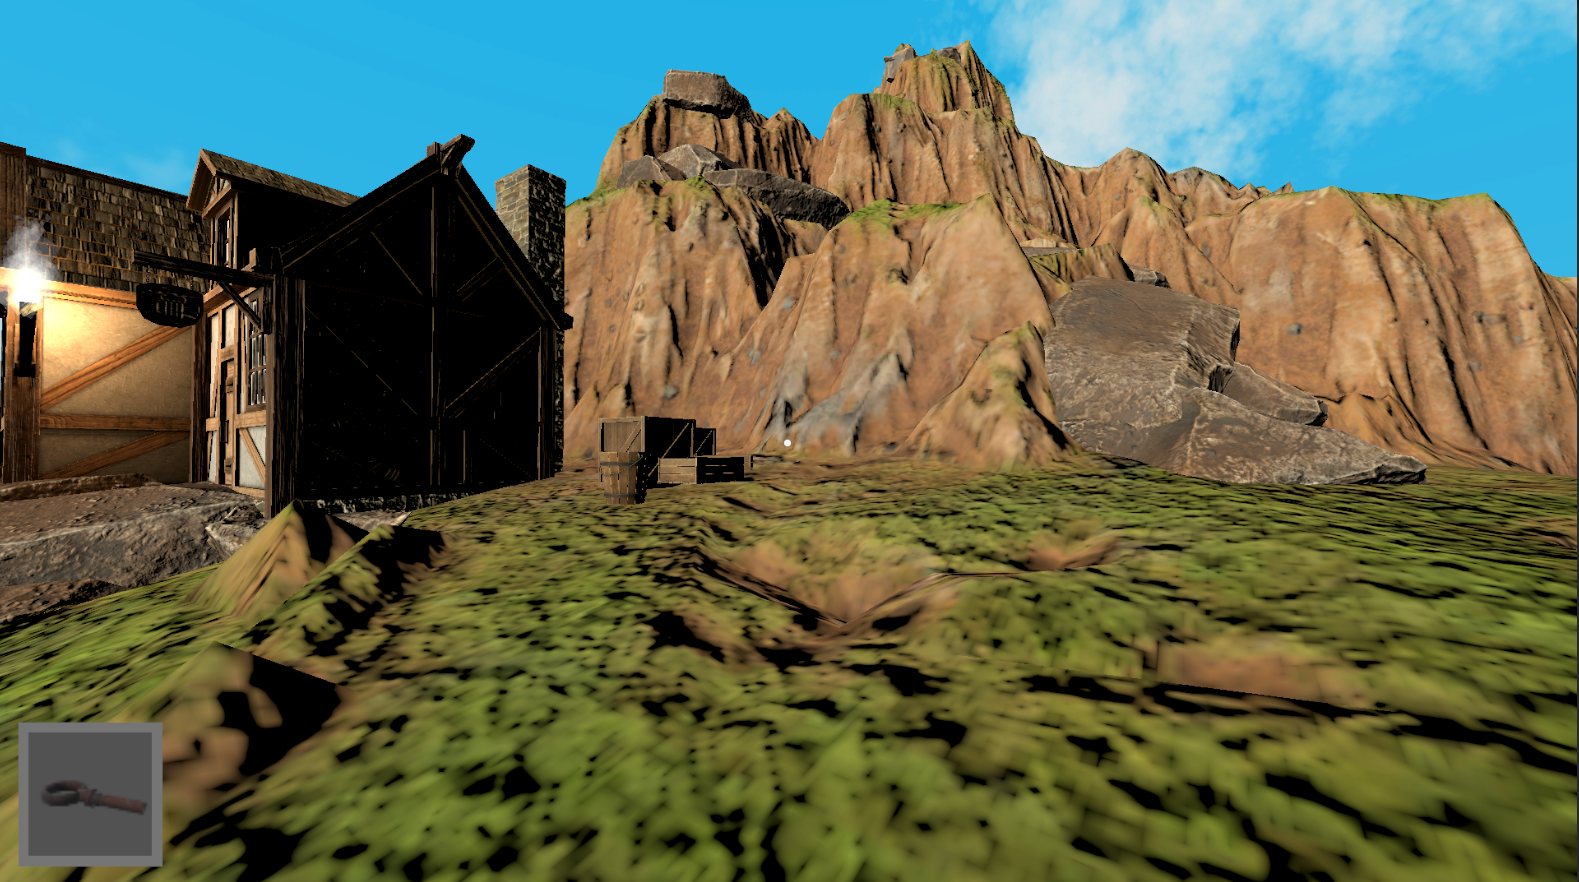
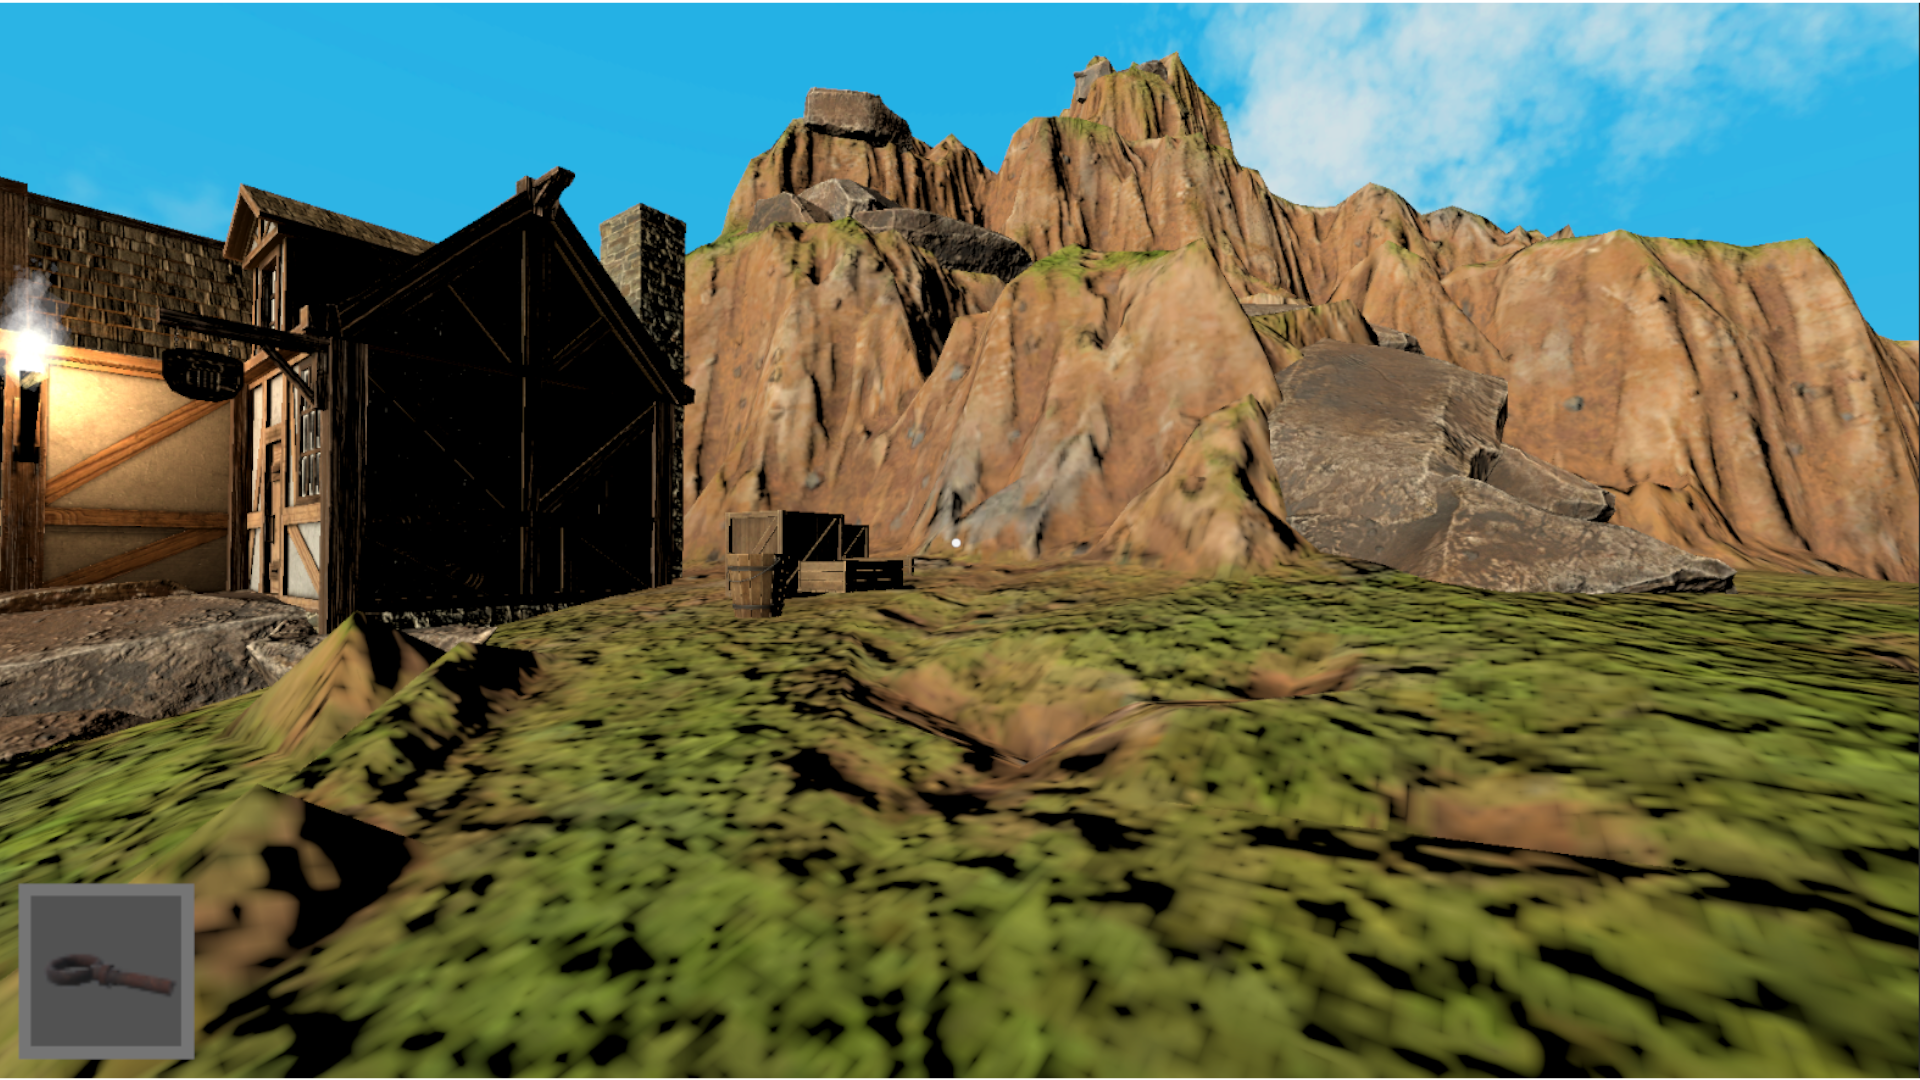
Clean up
Set all margins and sizes to percentages to ensure it looks the same on different screen sizes

diff --git a/style.css b/style.css
@@ -5,9 +5,7 @@ body{
     height: 100%;
     background-color: darkgreen;
 }
-main{
-    margin: 20px; /* Remove this to check for improvement web version*/
-}
+
 
 /* Fonts adjustments*/
 strong{
@@ -32,6 +30,7 @@ h3{
 h4{
     font-size: 25;
     color: darkgreen;
+    text-align: center;
 }
 
 /* Navigation Bar*/
@@ -50,7 +49,7 @@ nav{
 
 .menu_references{
     list-style-type: none;
-    padding: 0px;
+    padding: 0;
     margin: 0;
     display: flex;
 }
@@ -59,7 +58,7 @@ nav{
     text-decoration: none;
     text-align: center;
     display: block;
-    padding: 15px;
+    padding: 17.5px;
 }
 .menu_references a:hover{
     background-color: forestgreen;
@@ -96,60 +95,64 @@ nav{
     border-radius: 3px;
     background-color: white;
 }
+.contact_icon:hover{
+    background-color: rgb(204, 204, 204);
+}
 
 
 /* Main container*/
 .main_container{
     display: flex;
     justify-content: space-between;
-    margin: 1rem;
+    margin: 1%;
 }
 
 .left_section{
     display: flex;
     flex-direction: column;
-    width: 58%;
+    width: 60%;
     height: auto;
     background-color: rgb(2, 129, 2);
     border-radius: 3px;
 }
 .about_content{
     display: flex;
-    margin: 0.5rem;
+    margin: 2%;
     background-color: rgb(216, 215, 215);
     border-radius: 3px;
     align-items: center;
-    flex-wrap: wrap;
+    flex-wrap: wrap-reverse;
+    height:min-content;
 }
 .about_content div{
-    margin: 0.5rem;
+    margin: 2%;
 }
 .profile_picture{
-    max-width: 15rem;
-    max-height: 15rem;
+    width: 25%;
     border-radius: 3px;
-    margin: 0.5rem;
+    margin: 2%;
 }
 
 .skills_content{
     display: flex;
-    margin: 0.5rem;
+    margin: 2%;
     background-color: rgb(216, 215, 215);
     border-radius: 3px;
     align-items: center;
-    justify-content: space-evenly;
+    
     flex-wrap: wrap;
 }
 #Skill{
     display: flex;
     flex-direction: column;
     align-items: center;
-    height: 7rem;
+    justify-content: center;
+    height: auto;
+    margin: 2%;
 }
 .skills_content img{
-    width: 3rem;
-    height: 3rem;
-    margin: 0.5rem;
+    width: 5rem;
+    padding: 0.5rem;
 }
 
 .Ed_Work_Title{
@@ -160,51 +163,54 @@ nav{
 .Ed_Work_container{
     display: flex;
     justify-content: space-between;
-    margin: 0.5rem;   
+    margin: 2%;   
 }
 .Ed_Work_container div{
     display: flex;
     flex-direction: column;
-    width: 48%;
+    width: 49%;
     height: auto;
     background-color: rgb(216, 215, 215);
     border-radius: 3px;
 }
 #Ed-Work_line{
-    margin: 0.5rem;
+    margin: 2%;
     width: auto;
 }
-/* Options to make different headings in the same line work
--use flexbox to wrap them against their will
-- Headings are what makes them go to the next line. Use different html elements and attach css classes to them.
--Make it so it's on the next line everywhere for stylistic reasons. Check if it works at different widths.
-*/
 
 
 .projects_list{
     display: flex;
     flex-direction: column;
     align-items: center;
-    width: 40%;
+    width: 39%;
     background-color: rgb(2, 129, 2);
     border-radius: 3px;
 }
 .project{
     display: flex;
     flex-direction: column;
-    margin: 0.5rem;
+    margin: 2%;
     background-color: rgb(216, 215, 215);
     border-radius: 3px;
+    width: 94%;
 }
 .project_line{
-    width: 90%;
+    width: 96%;
     align-self: center;
-    margin: 0.5rem;
+    text-align: center;
+    margin: 2%;
+}
+.project div{
+    margin: 1%;
 }
 
 .projects_list a{
     text-decoration: none;
     color: white;
+}
+.projects_list a:hover{
+    text-decoration: underline;
 }
 
 #green_button{
@@ -213,10 +219,10 @@ nav{
     color: white;
     text-align: center;
     border-radius: 3px;
-    padding: 0.5rem;
-    width: inherit;
+    padding: 1%;
+    width: auto;
     font-weight: bold;
 }
-.projects_list a:hover{
-    text-decoration: underline;
+#green_button:hover{
+    background-color: forestgreen;
 }

diff --git a/index.html b/index.html
@@ -47,31 +47,31 @@
             <h3>Skills</h3>
             <div class="skills_content">
                 <div id="Skill">
-                    <img src="/assets/Logos/Unity_Logo.png" alt="Unity">
+                    <img src="/assets/Logos/Unity_Logo.png" alt="Unity logo">
                     Unity
                 </div>
                 <div id="Skill">
-                    <img src="/assets/Logos/csharp-logo.svg" alt="C#">
+                    <img src="/assets/Logos/csharp-logo.svg" alt="C# logo">
                     C#
                 </div>
                 <div id="Skill">
-                    <img src="/assets/Logos/GitHub_Logo.svg" alt="GitHub">
+                    <img src="/assets/Logos/GitHub_Logo.svg" alt="GitHub logo">
                     GitHub
                 </div>
                 <div id="Skill">
-                    <img src="/assets/Logos/Adobe_Logo.png" alt="Adobe Creative Cloud">
+                    <img src="/assets/Logos/Adobe_Logo.png" alt="Adobe Creative Cloud logo">
                     Creative Cloud
                 </div>
                 <div id="Skill">
-                    <img src="/assets/Logos/GIMP_Logo.png" alt="GIMP">
+                    <img src="/assets/Logos/GIMP_Logo.png" alt="GIMP logo">
                     GIMP
                 </div>
                 <div id="Skill">
-                    <img src="/assets/Logos/Ableton_Logo.png" alt="Ableton">
+                    <img src="/assets/Logos/Ableton_Logo.png" alt="Ableton logo">
                     Ableton
                 </div>
                 <div id="Skill">
-                    <img src="/assets/Logos/Fmod_Logo.png" alt="Fmod">
+                    <img src="/assets/Logos/Fmod_Logo.png" alt="Fmod logo">
                     Fmod
                 </div>
             </div>
@@ -103,7 +103,7 @@
                 <a class= "project_line" id="green_button" href="PickyPlanters.html">See More</a>
             </div>
             <div class="project">
-                <img class="project_line" src="assets/images/Reptile_Rush_Menu.png" alt="Reptile Rush">
+                <img class="project_line" src="assets/images/Reptile_Rush_Menu_2.png" alt="Reptile Rush">
                 <div class="project_line">Mobile Parkour Game, Level Design, Playtesting, Project Leader.</div>
                 <a class= "project_line" id="green_button" href="ReptileRush.html">See More</a>
             </div>
